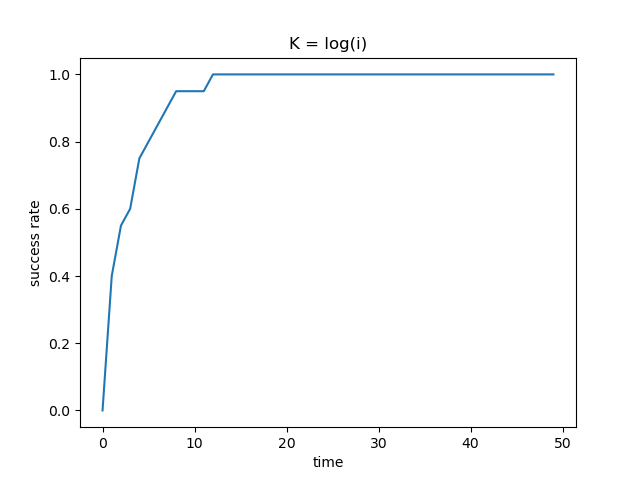
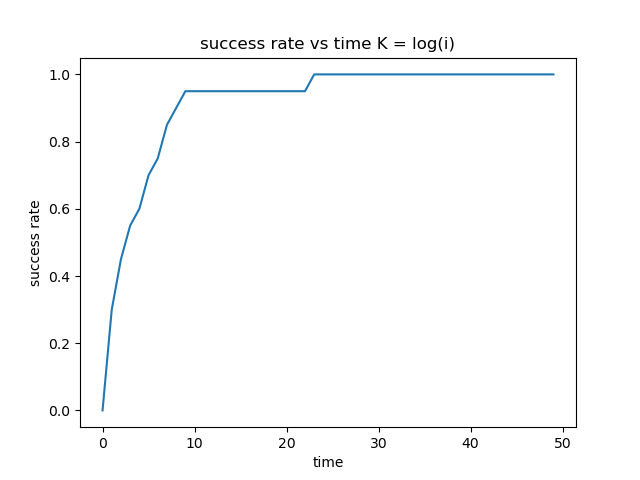
wet2 plots

Changed region(s): [[0.1562, 0.1562, 0.4688, 0.8438], [0.3125, 0.0625, 0.7188, 0.1562], [0.4688, 0.1562, 0.5, 0.1875]]

diff --git a/hw2/hw2_code/RRTStarPlanner.py b/hw2/hw2_code/RRTStarPlanner.py
@@ -58,8 +58,9 @@ class RRTStarPlanner(object):
     def plots(self, run_times, costs):
         num_of_runs = len(run_times)
         t = np.arange(start=0, stop=50)
-        run_times_sorted = run_times
-        run_times_sorted.sort()
+        run_times_np_arr = np.array(run_times)
+        run_time_sorted_indices = np.argsort(run_times_np_arr)
+        run_times_sorted = run_times_np_arr[run_time_sorted_indices]
         rate_of_success = []
         run_times_idx = 0
         success_counter = 0
@@ -69,13 +70,30 @@ class RRTStarPlanner(object):
                 success_counter += 1
             rate_of_success.append(success_counter/num_of_runs)
         if self.const_k is True:
-            plt.title(f'const K = {self.k}')
+            title_append = f'const K = {self.k}'
         else:
-            plt.title(f'K = log(i)')
+            title_append = f'K = log(i)'
+        title = 'success rate vs time '
+        title += title_append
         plt.plot(t, rate_of_success)
+        plt.title(title)
         plt.xlabel('time')
         plt.ylabel('success rate')
         plt.show()
+
+        #cost_sorted_indices = np.argsort(costs_np_arr)
+        #run_times_cost_sorted = run_times_np_arr[cost_sorted_indices]
+        costs_np_arr = np.array(costs)
+        costs_sorted = costs_np_arr[run_time_sorted_indices]
+        title = 'quality vs time '
+        title += title_append
+
+        plt.plot(run_times_sorted, costs_sorted)
+        plt.title(title)
+        plt.xlabel('time')
+        plt.ylabel('cost')
+        plt.show()
+
 
     def plan(self):
         '''
@@ -92,6 +110,8 @@ class RRTStarPlanner(object):
         start_state = env.start
         goal_state = env.goal
 
+        best_cost = 10000
+        best_plan = []
         run_times = []
         costs = []
         sum_cost = 0
@@ -157,7 +177,9 @@ class RRTStarPlanner(object):
             print('Total time (run {}): {:.2f}'.format(run_idx, run_time))
             sum_cost += cost
             sum_time += run_time
-
+            if cost < best_cost:
+                best_cost = cost
+                best_plan = plan[:]
         self.plots(run_times, costs)
         avg_cost = sum_cost/ self.num_of_runs_for_average
         avg_time = sum_time/ self.num_of_runs_for_average
@@ -170,10 +192,12 @@ class RRTStarPlanner(object):
         print(f'Extend mode: {self.ext_mode}')
         if self.ext_mode == 'E2':
             print(f'eta: {self.eta}')
+
+        print('Best plan cost: {:.2f}'.format(best_cost))
         print('Avg cost of path: {:.2f}'.format(avg_cost))
         print('Avg time: {:.2f}'.format(avg_time))
 
-        return np.array(plan)
+        return np.array(best_plan)
 
     def compute_cost(self, plan):
         '''
